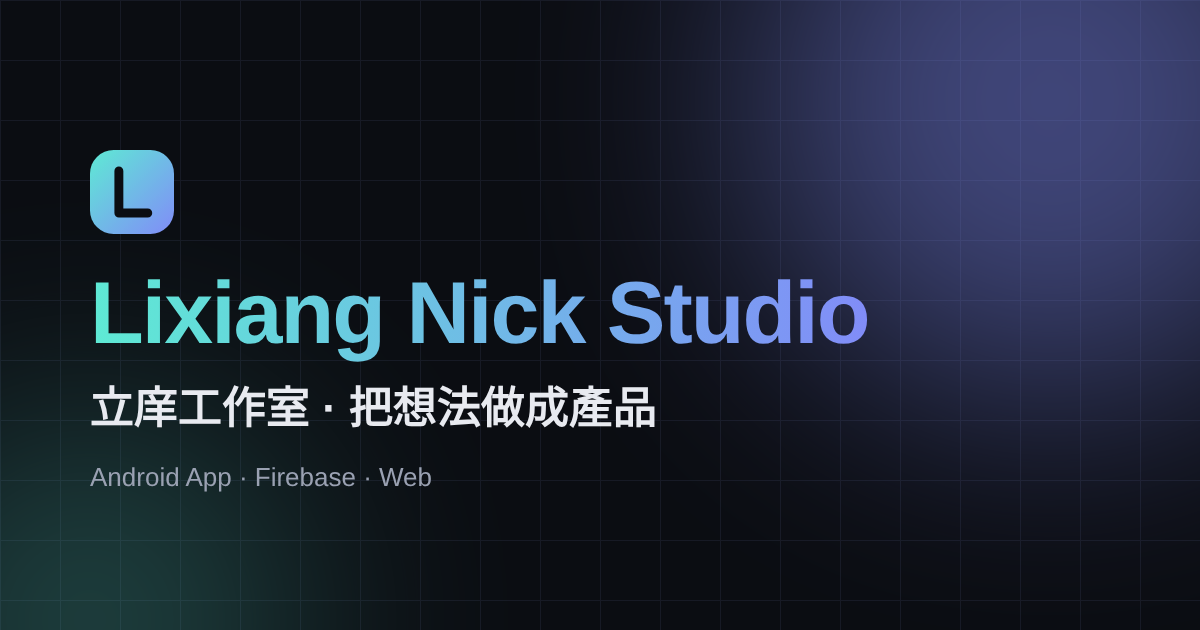
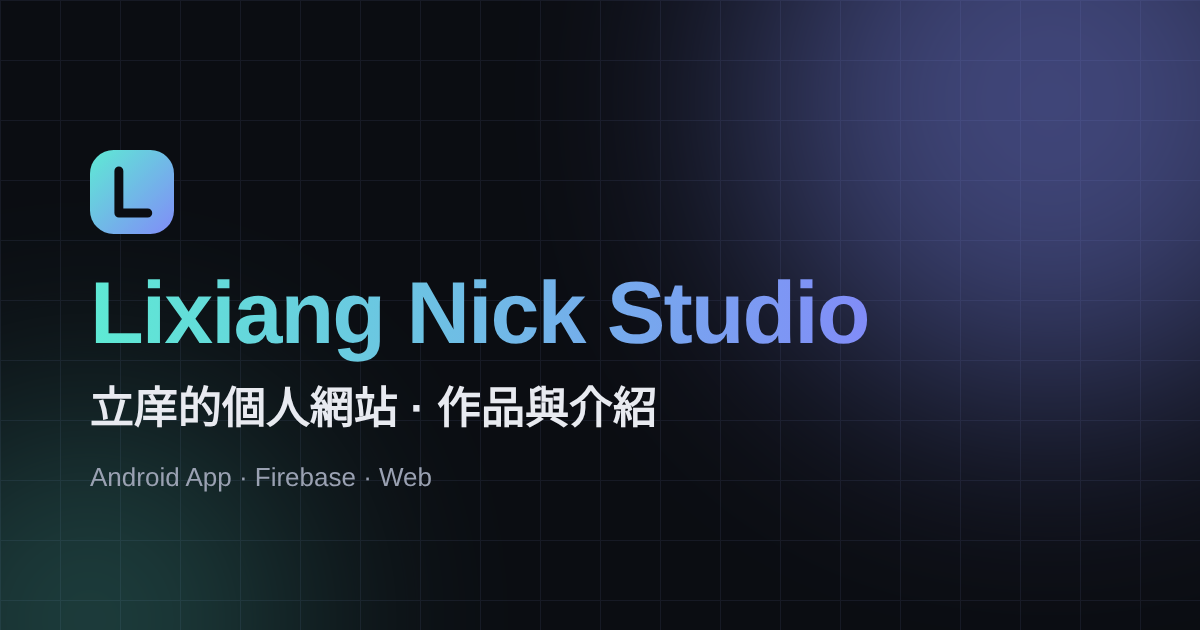
Turn site into personal intro: remove services, process, FAQ; first-person copy
Claude-Session: https://claude.ai/code/session_01EBZHduDSTzSEw5gpksr7mL

Changed region(s): [[0.1233, 0.6032, 0.555, 0.6937]]

diff --git a/index.html b/index.html
@@ -3,29 +3,23 @@
 <head>
 <meta charset="UTF-8">
 <meta name="viewport" content="width=device-width, initial-scale=1">
-<title>Lixiang Nick Studio · 立庠工作室</title>
-<meta name="description" content="Lixiang Nick Studio：個人軟體工作室，提供 Android App、Firebase 雲端後端與網站開發。Independent software studio building Android apps, Firebase backends and websites.">
+<title>Lixiang Nick Studio · 立庠</title>
+<meta name="description" content="我是立庠（Lixiang Nick），在台灣學資訊工程，喜歡做 Android App、Firebase 雲端和網頁。這裡是我的作品與介紹。">
 <meta name="theme-color" content="#0b0d12">
 <link rel="canonical" href="https://classy-beignet-781d38.netlify.app/">
 <link rel="icon" href="favicon.svg" type="image/svg+xml">
-<meta property="og:type" content="website">
-<meta property="og:title" content="Lixiang Nick Studio · 立庠工作室">
-<meta property="og:description" content="Android App · Firebase 雲端後端 · 網站開發 — 把想法做成產品。">
+<link rel="apple-touch-icon" href="apple-touch-icon.png">
+<meta property="og:type" content="profile">
+<meta property="og:title" content="Lixiang Nick Studio · 立庠">
+<meta property="og:description" content="Android App · Firebase · Web — 我的作品與介紹。">
 <meta property="og:url" content="https://classy-beignet-781d38.netlify.app/">
 <meta property="og:image" content="https://classy-beignet-781d38.netlify.app/og.png">
 <meta property="og:image:width" content="1200">
 <meta property="og:image:height" content="630">
 <meta name="twitter:card" content="summary_large_image">
 <meta name="twitter:image" content="https://classy-beignet-781d38.netlify.app/og.png">
-<link rel="apple-touch-icon" href="apple-touch-icon.png">
 <script type="application/ld+json">
-{"@context":"https://schema.org","@type":"Organization","name":"Lixiang Nick Studio","alternateName":"立庠工作室","url":"https://classy-beignet-781d38.netlify.app/","founder":{"@type":"Person","name":"Lixiang Nick"},"areaServed":"Worldwide","email":"lixiangsu6@gmail.com","sameAs":["https://github.com/Black-tea666888"]}
-</script>
-<script type="application/ld+json">
-{"@context":"https://schema.org","@type":"FAQPage","mainEntity":[
-{"@type":"Question","name":"一個專案大概要多久？","acceptedAnswer":{"@type":"Answer","text":"依規模而定。小型網站通常幾週內可以上線，App 或含硬體串接的系統會先拆成幾個階段，每階段都有可試用的版本。"}},
-{"@type":"Question","name":"費用怎麼計算？","acceptedAnswer":{"@type":"Answer","text":"先免費討論需求，確認範圍後提供逐項報價。不會在中途追加沒說好的費用。"}},
-{"@type":"Question","name":"接受海外客戶嗎？","acceptedAnswer":{"@type":"Answer","text":"接受。全程遠端合作，可用中文或英文溝通。"}}]}
+{"@context":"https://schema.org","@type":"Person","name":"Lixiang Nick","alternateName":"立庠","url":"https://classy-beignet-781d38.netlify.app/","email":"lixiangsu6@gmail.com","knowsAbout":["Android","Firebase","Web development","ESP32"],"sameAs":["https://github.com/Black-tea666888"]}
 </script>
 <link rel="preconnect" href="https://fonts.googleapis.com">
 <link rel="preconnect" href="https://fonts.gstatic.com" crossorigin>
@@ -211,6 +205,10 @@ footer a:hover{color:var(--text)}
 }
 @media(max-width:480px){.steps{grid-template-columns:1fr}}
 @media(prefers-reduced-motion:reduce){*,*::before,*::after{animation:none!important;transition:none!important}.reveal{opacity:1;transform:none}html{scroll-behavior:auto}}
+
+.now{display:grid;grid-template-columns:repeat(3,1fr);gap:20px}
+.now .card p{margin:0}
+@media(max-width:760px){.now{grid-template-columns:1fr}}
 </style>
 </head>
 <body class="no-js">
@@ -223,10 +221,10 @@ footer a:hover{color:var(--text)}
   </a>
   <button class="burger" id="burger" aria-label="Menu" aria-expanded="false" aria-controls="links"><span></span><span></span><span></span></button>
   <div class="links" id="links">
-    <a href="#services" data-i18n="nav_services">服務</a>
+    <a href="#about" data-i18n="nav_about">關於我</a>
     <a href="#projects" data-i18n="nav_projects">作品</a>
-    <a href="#process" data-i18n="nav_process">流程</a>
-    <a href="#about" data-i18n="nav_about">關於</a>
+    <a href="#skills" data-i18n="nav_skills">技能</a>
+    <a href="#now" data-i18n="nav_now">近況</a>
     <a href="#contact" data-i18n="nav_contact">聯絡</a>
     <button class="lang" id="lang" title="Switch language / 切換語言">EN</button>
   </div>
@@ -235,105 +233,65 @@ footer a:hover{color:var(--text)}
 <header id="top">
   <div class="bg-grid"></div><div class="orb a"></div><div class="orb b"></div>
   <div class="wrap"><div class="hero">
-    <div class="tag"><i></i><span data-i18n="tag">個人軟體工作室 · 接受新專案</span></div>
-    <h1><span class="grad">Lixiang Nick Studio</span><br><span data-i18n="hi">把想法做成產品</span></h1>
-    <p class="lead" data-i18n="lead">個人軟體工作室，提供 Android App、Firebase 雲端後端與網站開發——把硬體、資料和使用者連在一起。</p>
+    <div class="tag"><i></i><span data-i18n="tag">資訊工程學生 · 台灣</span></div>
+    <h1><span data-i18n="hi">你好，我是</span><br><span class="grad">立庠 Lixiang Nick</span></h1>
+    <p class="lead" data-i18n="lead">我喜歡把想法做成真的能用的東西——從 Android App、Firebase 雲端資料庫到網頁，把硬體、資料和使用者連在一起。</p>
     <div class="btns">
-      <a href="#contact" class="btn primary" data-i18n="cta1">開始合作</a>
-      <a href="#projects" class="btn ghost" data-i18n="cta2">看作品 →</a>
-    </div>
-    <div class="stats">
-      <div class="stat"><b>3+</b><span data-i18n="st1">上線作品</span></div>
-      <div class="stat"><b>3</b><span data-i18n="st2">平台：Android · Web · IoT</span></div>
-      <div class="stat"><b>2</b><span data-i18n="st3">語言：中文 · English</span></div>
+      <a href="#projects" class="btn primary" data-i18n="cta1">看我的作品</a>
+      <a href="https://github.com/Black-tea666888" class="btn ghost" target="_blank" rel="noopener">GitHub ↗</a>
     </div>
   </div></div>
 </header>
 
 <main id="main">
-<section id="services"><div class="wrap">
-  <div class="eyebrow reveal" data-i18n="sv_e">Services</div>
-  <h2 class="reveal" data-i18n="sv_t">服務項目</h2>
-  <p class="sub reveal" data-i18n="sv_s">從點子到上線，一站完成。</p>
-  <div class="grid">
-    <article class="card reveal"><div class="icon"><svg viewBox="0 0 24 24" fill="none" stroke="currentColor" stroke-width="2" stroke-linecap="round"><rect x="6" y="2" width="12" height="20" rx="2.5"/><path d="M11 18h2"/></svg></div><h3 data-i18n="sv1_t">Android App 開發</h3><p data-i18n="sv1_d">以 Java 與 Android Studio 打造原生 App，從介面設計、功能開發到上架準備。</p></article>
-    <article class="card reveal"><div class="icon"><svg viewBox="0 0 24 24" fill="none" stroke="currentColor" stroke-width="2" stroke-linecap="round" stroke-linejoin="round"><path d="M17.5 19a4.5 4.5 0 1 0-1.4-8.8A6 6 0 0 0 4.5 12 3.5 3.5 0 0 0 6 19z"/></svg></div><h3 data-i18n="sv2_t">Firebase 雲端後端</h3><p data-i18n="sv2_d">即時資料庫、使用者驗證與 IoT 裝置資料串接，讓 App、網頁與硬體即時同步。</p></article>
-    <article class="card reveal"><div class="icon"><svg viewBox="0 0 24 24" fill="none" stroke="currentColor" stroke-width="2" stroke-linecap="round"><circle cx="12" cy="12" r="10"/><path d="M2 12h20M12 2a15 15 0 0 1 0 20M12 2a15 15 0 0 0 0 20"/></svg></div><h3 data-i18n="sv3_t">網站開發與部署</h3><p data-i18n="sv3_d">響應式、多語系網站，GitHub 連動自動部署，手機、平板、電腦都好看。</p></article>
+<section id="about"><div class="wrap about">
+  <div class="reveal">
+    <div class="eyebrow" data-i18n="ab_e">About</div>
+    <h2 data-i18n="about_t">關於我</h2>
+    <p data-i18n="about_p1">我是立庠，目前在台灣讀資訊工程。比起只寫作業，我更喜歡做出別人真的會用的東西，所以常常一個人從資料庫、App 一路做到網頁。</p>
+    <p data-i18n="about_p2">Lixiang Nick Studio 是我放個人作品和實驗的地方，記錄我做過的專案和正在學的東西。</p>
+  </div>
+  <div class="facts reveal">
+    <div><span data-i18n="f_name">名字</span><span data-i18n="f_name_v">立庠 Lixiang Nick</span></div>
+    <div><span data-i18n="f_study">主修</span><span data-i18n="f_study_v">資訊工程</span></div>
+    <div><span data-i18n="f_focus">喜歡做</span><span>Android · Firebase · Web</span></div>
+    <div><span data-i18n="f_loc">所在地</span><span data-i18n="f_loc_v">台灣</span></div>
+    <div><span data-i18n="f_lang">語言</span><span data-i18n="f_lang_v">中文 · English</span></div>
   </div>
 </div></section>
 
 <section id="projects" class="alt"><div class="wrap">
-  <div class="eyebrow reveal" data-i18n="pj_e">Work</div>
-  <h2 class="reveal" data-i18n="proj_t">精選作品</h2>
-  <p class="sub reveal" data-i18n="proj_s">工作室親手打造、持續改進的作品。</p>
+  <div class="eyebrow reveal" data-i18n="pj_e">Projects</div>
+  <h2 class="reveal" data-i18n="proj_t">我的作品</h2>
+  <p class="sub reveal" data-i18n="proj_s">我做過、也還在持續改進的專案。</p>
   <div class="grid">
     <article class="card reveal">
       <div class="thumb" aria-hidden="true"><svg viewBox="0 0 320 170" preserveAspectRatio="xMidYMid slice"><defs><linearGradient id="t1" x1="0" y1="0" x2="1" y2="1"><stop offset="0" stop-color="#10233a"/><stop offset="1" stop-color="#0e1118"/></linearGradient></defs><rect width="320" height="170" fill="url(#t1)"/><g stroke="#2a3550" stroke-width="2"><path d="M40 40v100M90 40v100M140 40v100M190 40v100M240 40v100M290 40v100"/></g><g><rect x="50" y="52" width="30" height="48" rx="7" fill="#818cf8"/><rect x="150" y="52" width="30" height="48" rx="7" fill="#818cf8"/><rect x="200" y="82" width="30" height="48" rx="7" fill="#818cf8" opacity=".85"/><rect x="250" y="52" width="30" height="48" rx="7" fill="#818cf8"/></g><g><circle cx="115" cy="76" r="7" fill="#5eead4"/><circle cx="65" cy="118" r="7" fill="#5eead4"/><circle cx="115" cy="118" r="7" fill="#5eead4"/><circle cx="165" cy="118" r="7" fill="#5eead4"/><circle cx="265" cy="118" r="7" fill="#5eead4"/><circle cx="215" cy="64" r="7" fill="#5eead4"/></g><path d="M262 30a12 12 0 1 0-4-23 16 16 0 0 0-30 5 9 9 0 0 0 4 18z" fill="none" stroke="#5eead4" stroke-width="2" transform="translate(-70 6)"/><path d="M175 36v10M175 46l-6-5M175 46l6-5" stroke="#5eead4" stroke-width="2" fill="none" stroke-linecap="round"/></svg></div><span class="label">IoT</span>
-      <div class="icon"><svg viewBox="0 0 24 24" fill="none" stroke="currentColor" stroke-width="2" stroke-linecap="round" stroke-linejoin="round"><rect x="3" y="3" width="18" height="18" rx="3"/><path d="M9 17V7h4a3 3 0 0 1 0 6H9"/></svg></div>
       <h3 data-i18n="p1_t">雲端載重智慧車位偵測</h3>
-      <p data-i18n="p1_d">雙 ESP32 搭配光敏與重量感測器偵測車位，資料即時上傳 Firebase；包含 Android App 與使用者／管理員／業主三種網頁，支援 iOS、iPadOS、macOS，中英切換。</p>
+      <p data-i18n="p1_d">團隊專題，我負責軟體端：Firebase 資料庫、Android App，以及使用者／管理員／業主三種網頁。硬體用雙 ESP32 搭配光敏與重量感測器，資料即時上傳雲端；網頁支援 iOS、iPadOS、macOS 與中英切換。</p>
       <div class="chips"><span class="chip">Firebase</span><span class="chip">Android</span><span class="chip">ESP32</span><span class="chip">Web</span></div>
       <a class="more" href="https://github.com/Black-tea666888/smart-parking-web" target="_blank" rel="noopener" data-i18n="code">查看原始碼 ↗</a>
     </article>
     <article class="card reveal">
       <div class="thumb" aria-hidden="true"><svg viewBox="0 0 320 170" preserveAspectRatio="xMidYMid slice"><defs><linearGradient id="t2" x1="0" y1="0" x2="0" y2="1"><stop offset="0" stop-color="#312e81"/><stop offset=".6" stop-color="#7c3aed" stop-opacity=".55"/><stop offset="1" stop-color="#f472b6" stop-opacity=".5"/></linearGradient></defs><rect width="320" height="170" fill="url(#t2)"/><circle cx="230" cy="100" r="34" fill="#fbbf24" opacity=".85"/><g fill="#0b0d12"><path d="M0 170V118h22v-20h18v72zM46 170V80h26v90zM78 170V105h14V60h20v110zM118 170V96h30v74zM154 170V70l14-14 14 14v100zM188 170v-58h24v58zM218 170V88h20V74h14v96zM258 170v-50h22v50zM286 170V92h34v78z"/></g><g fill="#fde68a" opacity=".7"><rect x="52" y="92" width="4" height="5"/><rect x="62" y="92" width="4" height="5"/><rect x="52" y="108" width="4" height="5"/><rect x="88" y="74" width="4" height="5"/><rect x="98" y="88" width="4" height="5"/><rect x="162" y="84" width="4" height="5"/><rect x="170" y="100" width="4" height="5"/><rect x="226" y="100" width="4" height="5"/><rect x="294" y="104" width="4" height="5"/><rect x="306" y="118" width="4" height="5"/></g></svg></div><span class="label">Web</span>
-      <div class="icon"><svg viewBox="0 0 24 24" fill="none" stroke="currentColor" stroke-width="2" stroke-linecap="round" stroke-linejoin="round"><path d="M3 21h18M5 21V10l4-3v14M9 21V4l6 3v14M15 21v-8l4-2v10"/></svg></div>
       <h3>Skyline Daily Boost</h3>
-      <p data-i18n="p2_d">每日鼓勵網站：城市景色、科技公司資訊與讀書工具，為全球使用者設計，GitHub 連動自動部署。</p>
+      <p data-i18n="p2_d">我自己做的每日鼓勵網站：城市景色、科技公司資訊和讀書工具，設計給全世界的人使用，GitHub 連動自動部署。</p>
       <div class="chips"><span class="chip">HTML/CSS/JS</span><span class="chip">Netlify</span><span class="chip">GitHub</span></div>
       <a class="more" href="https://shiny-kleicha-085187.netlify.app" target="_blank" rel="noopener" data-i18n="visit">前往網站 ↗</a>
     </article>
     <article class="card reveal">
       <div class="thumb" aria-hidden="true"><svg viewBox="0 0 320 170" preserveAspectRatio="xMidYMid slice"><defs><linearGradient id="t3" x1="0" y1="0" x2="1" y2="1"><stop offset="0" stop-color="#5eead4"/><stop offset="1" stop-color="#818cf8"/></linearGradient><radialGradient id="t3b"><stop offset="0" stop-color="#3b2a6b"/><stop offset="1" stop-color="#0e1118"/></radialGradient></defs><rect width="320" height="170" fill="url(#t3b)"/><g transform="translate(160 98)"><rect x="-34" y="-50" width="68" height="96" rx="9" fill="#1c2130" stroke="#2a3550" stroke-width="2" transform="rotate(-18) translate(-34 4)"/><rect x="-34" y="-50" width="68" height="96" rx="9" fill="#1c2130" stroke="#2a3550" stroke-width="2" transform="rotate(18) translate(34 4)"/><rect x="-36" y="-58" width="72" height="104" rx="10" fill="url(#t3)"/><path d="M0 -30l7 15 16 2-12 11 3 16-14-8-14 8 3-16-12-11 16-2z" fill="#0b0d12"/></g><g fill="#fde68a"><circle cx="60" cy="40" r="2"/><circle cx="240" cy="40" r="2.5"/><circle cx="250" cy="130" r="1.6"/><circle cx="80" cy="132" r="1.8"/><circle cx="110" cy="28" r="1.4"/></g></svg></div><span class="label">Game</span>
-      <div class="icon"><svg viewBox="0 0 24 24" fill="none" stroke="currentColor" stroke-width="2" stroke-linecap="round" stroke-linejoin="round"><rect x="3" y="3" width="18" height="18" rx="3"/><circle cx="8.5" cy="8.5" r="1.2" fill="currentColor"/><circle cx="15.5" cy="15.5" r="1.2" fill="currentColor"/><circle cx="12" cy="12" r="1.2" fill="currentColor"/></svg></div>
       <h3>LuckyDraw</h3>
-      <p data-i18n="p3_d">以 Java 在 Android Studio 開發的抽卡風格手機遊戲，涵蓋遊戲邏輯、機率設計與 UI 動畫。</p>
+      <p data-i18n="p3_d">用 Java 在 Android Studio 寫的抽卡風格手機遊戲，練習遊戲邏輯、機率設計和 UI。</p>
       <div class="chips"><span class="chip">Java</span><span class="chip">Android</span><span class="chip">Game</span></div>
     </article>
   </div>
 </div></section>
 
-<section class="manifesto"><div class="wrap">
-  <blockquote class="reveal"><span data-i18n="mf1">不做華而不實的東西，</span><br><em data-i18n="mf2">只做真正有用的產品。</em></blockquote>
-  <p class="reveal" data-i18n="mf_s">Build what matters — 這是工作室做每個決定的標準。</p>
-  <div class="principles">
-    <div class="pr reveal"><b>01</b><h3 data-i18n="pp1_t">實用優先</h3><p data-i18n="pp1_d">先解決真正的問題，再談花俏的功能。每個畫面都要有存在的理由。</p></div>
-    <div class="pr reveal"><b>02</b><h3 data-i18n="pp2_t">全端打通</h3><p data-i18n="pp2_d">硬體、雲端、App、網頁一手串起，不用在多個外包之間來回溝通。</p></div>
-    <div class="pr reveal"><b>03</b><h3 data-i18n="pp3_t">透明溝通</h3><p data-i18n="pp3_d">進度、問題、取捨都說清楚，分階段交付，隨時看得到成果。</p></div>
-  </div>
-</div></section>
-
-<section id="process"><div class="wrap">
-  <div class="eyebrow reveal" data-i18n="pr_e">Process</div>
-  <h2 class="reveal" data-i18n="pr_t">合作流程</h2>
-  <p class="sub reveal" data-i18n="pr_s">清楚的步驟，每個階段都看得到進度。</p>
-  <div class="steps">
-    <div class="step reveal"><h3 data-i18n="pr1_t">需求討論</h3><p data-i18n="pr1_d">了解目標、使用者與預算，訂出範圍。</p></div>
-    <div class="step reveal"><h3 data-i18n="pr2_t">設計規劃</h3><p data-i18n="pr2_d">畫出介面與系統架構，確認後再開工。</p></div>
-    <div class="step reveal"><h3 data-i18n="pr3_t">開發測試</h3><p data-i18n="pr3_d">分階段交付，每一版都能實際試用。</p></div>
-    <div class="step reveal"><h3 data-i18n="pr4_t">上線維護</h3><p data-i18n="pr4_d">部署上線，持續修正與功能更新。</p></div>
-  </div>
-</div></section>
-
-<section id="about" class="alt"><div class="wrap about">
-  <div class="reveal">
-    <div class="eyebrow" data-i18n="ab_e">About</div>
-    <h2 data-i18n="about_t">關於工作室</h2>
-    <p data-i18n="about_p1">Lixiang Nick Studio 專注把想法做成真的能用的產品。從手機 App、雲端資料庫到跨平台網頁，一手包辦軟體端完整流程。</p>
-    <p data-i18n="about_p2">目前正開發「雲端載重智慧車位偵測」系統，並持續經營自有網站與 Android 遊戲產品。</p>
-  </div>
-  <div class="facts reveal">
-    <div><span data-i18n="f_founder">創辦人</span><span data-i18n="f_founder_v">立庠 Lixiang Nick</span></div>
-    <div><span data-i18n="f_focus">專長</span><span>Android · Firebase · Web</span></div>
-    <div><span data-i18n="f_area">服務範圍</span><span data-i18n="f_area_v">台灣 · 全球遠端</span></div>
-    <div><span data-i18n="f_lang">溝通語言</span><span data-i18n="f_lang_v">中文 · English</span></div>
-  </div>
-</div></section>
-
 <section id="skills"><div class="wrap">
-  <div class="eyebrow reveal" data-i18n="sk_e">Stack</div>
-  <h2 class="reveal" data-i18n="skill_t">技術</h2>
-  <p class="sub reveal" data-i18n="skill_s">工作室使用的技術。</p>
+  <div class="eyebrow reveal" data-i18n="sk_e">Skills</div>
+  <h2 class="reveal" data-i18n="skill_t">技能</h2>
+  <p class="sub reveal" data-i18n="skill_s">我常用的工具和技術。</p>
   <div class="skills">
     <div class="skill reveal"><h3 class="sk" data-i18n="s1">程式語言</h3><div class="chips"><span class="chip">Java</span><span class="chip">Python</span><span class="chip">JavaScript</span><span class="chip">HTML/CSS</span></div></div>
     <div class="skill reveal"><h3 class="sk" data-i18n="s2">行動與後端</h3><div class="chips"><span class="chip">Android Studio</span><span class="chip">Firebase</span><span class="chip">ESP32</span></div></div>
@@ -342,24 +300,22 @@ footer a:hover{color:var(--text)}
   </div>
 </div></section>
 
-<section id="faq"><div class="wrap">
-  <div class="eyebrow reveal" data-i18n="fq_e">FAQ</div>
-  <h2 class="reveal" data-i18n="fq_t">常見問題</h2>
-  <p class="sub reveal" data-i18n="fq_s">合作前大家最常問的事。</p>
-  <div class="faq">
-    <details class="reveal"><summary data-i18n="q1">一個專案大概要多久？</summary><p data-i18n="a1">依規模而定。小型網站通常幾週內可以上線，App 或含硬體串接的系統會先拆成幾個階段，每階段都有可試用的版本。</p></details>
-    <details class="reveal"><summary data-i18n="q2">費用怎麼計算？</summary><p data-i18n="a2">先免費討論需求，確認範圍後提供逐項報價。不會在中途追加沒說好的費用。</p></details>
-    <details class="reveal"><summary data-i18n="q3">只有想法、沒有規格書可以嗎？</summary><p data-i18n="a3">可以。我們會一起把想法整理成功能清單與畫面草圖，確認後再開始開發。</p></details>
-    <details class="reveal"><summary data-i18n="q4">上線之後還能修改嗎？</summary><p data-i18n="a4">可以。網站採自動部署，修改後幾分鐘內就會更新；App 與後端也提供後續維護。</p></details>
-    <details class="reveal"><summary data-i18n="q5">接受海外客戶嗎？</summary><p data-i18n="a5">接受。全程遠端合作，可用中文或英文溝通。</p></details>
+<section id="now" class="alt"><div class="wrap">
+  <div class="eyebrow reveal" data-i18n="nw_e">Now</div>
+  <h2 class="reveal" data-i18n="nw_t">最近在做什麼</h2>
+  <p class="sub reveal" data-i18n="nw_s">我現在的重心。</p>
+  <div class="now">
+    <div class="card reveal"><h3 data-i18n="n1_t">完成智慧車位專題</h3><p data-i18n="n1_d">把 App、網頁和 Firebase 串得更穩定。</p></div>
+    <div class="card reveal"><h3 data-i18n="n2_t">準備轉學考</h3><p data-i18n="n2_d">目標是進入資工系，繼續往軟體深入。</p></div>
+    <div class="card reveal"><h3 data-i18n="n3_t">打磨自己的網站</h3><p data-i18n="n3_d">持續改進 Skyline Daily Boost 和這個網站。</p></div>
   </div>
 </div></section>
 
-<section id="contact" class="alt"><div class="wrap contact">
+<section id="contact"><div class="wrap contact">
   <div class="reveal">
     <div class="eyebrow" data-i18n="ct_e">Contact</div>
-    <h2 data-i18n="ct_t">有專案想合作？</h2>
-    <p data-i18n="ct_s">寄信或填表單，通常 1–2 天內回覆。</p>
+    <h2 data-i18n="ct_t">跟我聊聊</h2>
+    <p data-i18n="ct_s">想交流技術、討論作品或只是打聲招呼，都歡迎寄信或留言給我。</p>
     <div class="mail">
       <a href="mailto:lixiangsu6@gmail.com" class="mail-link"><svg viewBox="0 0 24 24" fill="none" stroke="currentColor" stroke-width="2" stroke-linecap="round" stroke-linejoin="round" aria-hidden="true"><rect x="2" y="4" width="20" height="16" rx="3"/><path d="m22 7-10 6L2 7"/></svg>lixiangsu6@gmail.com</a>
       <button class="copy-mail" id="copyMail" type="button" data-i18n="cp">複製</button>
@@ -373,35 +329,27 @@ footer a:hover{color:var(--text)}
       <label><span data-i18n="fm_name">名字</span><input name="name" required autocomplete="name"></label>
       <label><span data-i18n="fm_email">Email</span><input type="email" name="email" required autocomplete="email"></label>
     </div>
-    <label><span data-i18n="fm_type">需求類型</span>
-      <select name="type">
-        <option data-i18n="fm_o1">Android App</option>
-        <option data-i18n="fm_o2">Firebase 後端</option>
-        <option data-i18n="fm_o3">網站</option>
-        <option data-i18n="fm_o4">其他</option>
-      </select>
-    </label>
-    <label><span data-i18n="fm_msg">專案內容</span><textarea name="message" required></textarea></label>
+    <label><span data-i18n="fm_msg">想說的話</span><textarea name="message" required></textarea></label>
     <button class="btn primary" type="submit" data-i18n="fm_send">送出</button>
     <div class="msg" id="msg" role="status" aria-live="polite"></div>
-    <p class="legal"><span data-i18n="lg1">送出即表示你同意我們依</span> <a href="privacy.html" data-i18n="lg2">隱私權政策</a> <span data-i18n="lg3">處理你的資料。</span></p>
+    <p class="legal"><span data-i18n="lg1">送出即表示你同意我依</span> <a href="privacy.html" data-i18n="lg2">隱私權政策</a> <span data-i18n="lg3">處理你的資料。</span></p>
   </form>
 </div></section>
 </main>
 
 <footer><div class="wrap">
   <div class="fgrid">
-    <div><a href="#top" class="logo"><svg viewBox="0 0 32 32" aria-hidden="true"><defs><linearGradient id="lg2" x1="0" y1="0" x2="1" y2="1"><stop offset="0" stop-color="#5eead4"/><stop offset="1" stop-color="#818cf8"/></linearGradient></defs><rect width="32" height="32" rx="9" fill="url(#lg2)"/><path d="M11 8v16h11" fill="none" stroke="#0b0d12" stroke-width="3.4" stroke-linecap="round" stroke-linejoin="round"/></svg><span>Lixiang Nick<span class="lt"> Studio</span></span></a><p data-i18n="f_tag">立庠工作室——把想法做成真正有用的產品。</p></div>
-    <div><h3 class="fh" data-i18n="f_h1">工作室</h3><ul><li><a href="#services" data-i18n="nav_services">服務</a></li><li><a href="#process" data-i18n="nav_process">流程</a></li><li><a href="#about" data-i18n="nav_about">關於</a></li><li><a href="#faq">FAQ</a></li></ul></div>
+    <div><a href="#top" class="logo"><svg viewBox="0 0 32 32" aria-hidden="true"><defs><linearGradient id="lg2" x1="0" y1="0" x2="1" y2="1"><stop offset="0" stop-color="#5eead4"/><stop offset="1" stop-color="#818cf8"/></linearGradient></defs><rect width="32" height="32" rx="9" fill="url(#lg2)"/><path d="M11 8v16h11" fill="none" stroke="#0b0d12" stroke-width="3.4" stroke-linecap="round" stroke-linejoin="round"/></svg><span>Lixiang Nick<span class="lt"> Studio</span></span></a><p data-i18n="f_tag">立庠的個人網站——作品、技能與近況。</p></div>
+    <div><h3 class="fh" data-i18n="f_h1">網站</h3><ul><li><a href="#about" data-i18n="nav_about">關於我</a></li><li><a href="#skills" data-i18n="nav_skills">技能</a></li><li><a href="#now" data-i18n="nav_now">近況</a></li></ul></div>
     <div><h3 class="fh" data-i18n="f_h2">作品</h3><ul><li><a href="#projects" data-i18n="f_p1">智慧車位</a></li><li><a href="https://shiny-kleicha-085187.netlify.app" target="_blank" rel="noopener">Skyline</a></li><li><a href="#projects">LuckyDraw</a></li></ul></div>
-    <div><h3 class="fh" data-i18n="f_h3">連結</h3><ul><li><a href="mailto:lixiangsu6@gmail.com">Email</a></li><li><a href="https://github.com/Black-tea666888" target="_blank" rel="noopener">GitHub</a></li><li><a href="brand.html" data-i18n="f_brand">品牌資源</a></li><li><a href="privacy.html" data-i18n="lg2">隱私權政策</a></li><li><a href="#contact" data-i18n="nav_contact">聯絡</a></li></ul></div>
+    <div><h3 class="fh" data-i18n="f_h3">連結</h3><ul><li><a href="mailto:lixiangsu6@gmail.com">Email</a></li><li><a href="https://github.com/Black-tea666888" target="_blank" rel="noopener">GitHub</a></li><li><a href="brand.html" data-i18n="f_brand">品牌資源</a></li><li><a href="privacy.html" data-i18n="lg2">隱私權政策</a></li></ul></div>
   </div>
-  <div class="fbar"><span>© <span id="yr"></span> Lixiang Nick Studio · 立庠工作室</span><a href="#top" data-i18n="top">回到頂部 ↑</a></div>
+  <div class="fbar"><span>© <span id="yr"></span> Lixiang Nick Studio · 立庠</span><a href="#top" data-i18n="top">回到頂部 ↑</a></div>
 </div></footer>
 
 <script>
 document.body.classList.remove("no-js");
-const en={skip:"Skip to content",nav_services:"Services",nav_projects:"Work",nav_process:"Process",nav_about:"About",nav_contact:"Contact",tag:"Independent software studio · Open for projects",hi:"Turning ideas into products",lead:"An independent software studio building Android apps, Firebase backends and websites — connecting hardware, data and people.",cta1:"Start a project",cta2:"See work →",st1:"Live projects",st2:"Platforms: Android · Web · IoT",st3:"Languages: 中文 · English",sv_e:"Services",sv_t:"What we do",sv_s:"From idea to launch, all in one place.",sv1_t:"Android App Development",sv1_d:"Native apps in Java with Android Studio — from UI design and features to release.",sv2_t:"Firebase Cloud Backend",sv2_d:"Realtime database, authentication and IoT data pipelines that keep apps, web and hardware in sync.",sv3_t:"Website Development",sv3_d:"Responsive, multilingual websites with Git-based auto-deploy that look great on every device.",pj_e:"Work",proj_t:"Featured work",proj_s:"Products we built and keep improving.",p1_t:"Cloud Smart Parking Detection",p1_d:"Dual-ESP32 hardware with light and weight sensors detects parking spots and streams data to Firebase in real time. Includes an Android app and three web clients (user / admin / owner) with iOS, iPadOS and macOS support and a Chinese/English switch.",code:"View source ↗",p2_d:"A daily-encouragement site with city scenes, tech-company info and study tools, designed for users worldwide with Git-based auto-deploy.",visit:"Visit site ↗",p3_d:"A gacha-style mobile game built in Java with Android Studio, covering game logic, probability design and UI animation.",pr_e:"Process",pr_t:"How we work",pr_s:"Clear steps, with visible progress at every stage.",pr1_t:"Discover",pr1_d:"Understand goals, users and budget, then set the scope.",pr2_t:"Design",pr2_d:"Sketch the UI and system architecture, and agree before building.",pr3_t:"Build & test",pr3_d:"Deliver in stages, with every version ready to try.",pr4_t:"Launch & support",pr4_d:"Deploy, then keep fixing and improving.",ab_e:"About",about_t:"About the studio",about_p1:"Lixiang Nick Studio turns ideas into products people actually use — from mobile apps to cloud databases to cross-platform web pages, covering the full software side.",about_p2:"Currently building a cloud-based, weight-sensing smart parking system, alongside our own website and Android game.",f_founder:"Founder",f_founder_v:"Lixiang Nick",f_focus:"Focus",f_area:"Serving",f_area_v:"Taiwan · Remote worldwide",f_lang:"Languages",f_lang_v:"Chinese · English",sk_e:"Stack",skill_t:"Tech stack",skill_s:"Tech the studio works with.",s1:"Languages",s2:"Mobile & Backend",s3:"Tools",s4:"Foundations",c1:"Networking",c2:"Computer Organization",c3:"Discrete Math",c4:"Systems Analysis",ct_e:"Contact",ct_t:"Have a project in mind?",ct_s:"Email us or use the form — we usually reply within 1–2 days.",fm_name:"Name",fm_email:"Email",fm_type:"Project type",fm_o1:"Android App",fm_o2:"Firebase backend",fm_o3:"Website",fm_o4:"Other",fm_msg:"Project details",fm_send:"Send",top:"Back to top ↑",fq_e:"FAQ",fq_t:"Frequently asked questions",fq_s:"What people usually ask before we start.",q1:"How long does a project take?",a1:"It depends on scope. A small website can usually launch within a few weeks; apps or systems with hardware are split into stages, each with a version you can try.",q2:"How is pricing calculated?",a2:"We start with a free consultation, then give an itemized quote once the scope is clear. No surprise charges along the way.",q3:"I only have an idea, no spec. Is that OK?",a3:"Yes. We will turn your idea into a feature list and screen sketches together before any development starts.",q4:"Can things be changed after launch?",a4:"Yes. Websites auto-deploy, so updates go live within minutes; apps and backends come with ongoing maintenance.",q5:"Do you work with overseas clients?",a5:"Yes. We work fully remote, in Chinese or English.",lg1:"By sending, you agree we handle your data under our",lg2:"Privacy Policy",lg3:".",mf1:"No fluff, no gimmicks —",mf2:"only products that truly matter.",mf_s:"Build what matters — the standard behind every decision we make.",pp1_t:"Useful first",pp1_d:"Solve the real problem before adding flashy features. Every screen has to earn its place.",pp2_t:"Full-stack, end to end",pp2_d:"Hardware, cloud, app and web wired together by one team — no juggling multiple vendors.",pp3_t:"Clear communication",pp3_d:"Progress, problems and trade-offs stated plainly, delivered in stages you can try anytime.",f_tag:"Lixiang Nick Studio — turning ideas into products that truly matter.",f_h1:"Studio",f_h2:"Work",f_h3:"Links",f_p1:"Smart Parking",f_brand:"Brand kit",ok:"Thanks! Your message was sent.",err:"Couldn't send. Please try again or email lixiangsu6@gmail.com.",cp:"Copy",cpd:"Copied"};
+const en={skip:"Skip to content",nav_about:"About",nav_projects:"Projects",nav_skills:"Skills",nav_now:"Now",nav_contact:"Contact",tag:"CS student · Taiwan",hi:"Hi, I'm",lead:"I love turning ideas into things people actually use — Android apps, Firebase cloud databases and websites that connect hardware, data and people.",cta1:"See my projects",ab_e:"About",about_t:"About me",about_p1:"I'm Lixiang, studying Computer Science & Information Engineering in Taiwan. I'd rather build things people really use than just finish assignments, so I often take a project all the way from the database and app to the website.",about_p2:"Lixiang Nick Studio is where I keep my personal projects and experiments — what I've built and what I'm learning.",f_name:"Name",f_name_v:"Lixiang Nick",f_study:"Major",f_study_v:"CS & Information Eng.",f_focus:"I build",f_loc:"Based in",f_loc_v:"Taiwan",f_lang:"Languages",f_lang_v:"Chinese · English",pj_e:"Projects",proj_t:"My projects",proj_s:"Things I've built and keep improving.",p1_t:"Cloud Smart Parking Detection",p1_d:"A team project where I own the software side: the Firebase database, the Android app, and three web clients (user / admin / owner). The hardware uses dual ESP32s with light and weight sensors streaming to the cloud in real time; the web supports iOS, iPadOS, macOS and a Chinese/English switch.",code:"View source ↗",p2_d:"My own daily-encouragement site with city scenes, tech-company info and study tools, designed for people worldwide and auto-deployed from GitHub.",visit:"Visit site ↗",p3_d:"A gacha-style mobile game I wrote in Java with Android Studio to practice game logic, probability design and UI.",sk_e:"Skills",skill_t:"Skills",skill_s:"Tools and tech I use often.",s1:"Languages",s2:"Mobile & Backend",s3:"Tools",s4:"Foundations",c1:"Networking",c2:"Computer Organization",c3:"Discrete Math",c4:"Systems Analysis",nw_e:"Now",nw_t:"What I'm doing now",nw_s:"Where my focus is these days.",n1_t:"Finishing the smart parking project",n1_d:"Making the app, web and Firebase work together more reliably.",n2_t:"Preparing for a transfer exam",n2_d:"Aiming for a CS department to go deeper into software.",n3_t:"Polishing my own sites",n3_d:"Improving Skyline Daily Boost and this website.",ct_e:"Contact",ct_t:"Say hello",ct_s:"Want to talk tech, chat about a project, or just say hi? Email me or leave a message.",fm_name:"Name",fm_email:"Email",fm_msg:"Message",fm_send:"Send",lg1:"By sending, you agree I handle your data under the",lg2:"Privacy Policy",lg3:".",f_tag:"Lixiang's personal site — projects, skills and what I'm up to.",f_h1:"Site",f_h2:"Projects",f_h3:"Links",f_p1:"Smart Parking",f_brand:"Brand kit",top:"Back to top ↑",ok:"Thanks! Your message was sent.",err:"Couldn't send. Please try again or email lixiangsu6@gmail.com.",cp:"Copy",cpd:"Copied"};
 const zh={ok:"謝謝！訊息已送出。",err:"送出失敗，請再試一次，或直接寄信到 lixiangsu6@gmail.com。",cpd:"已複製"};
 document.querySelectorAll("[data-i18n]").forEach(e=>zh[e.dataset.i18n]=e.textContent);
 let cur="zh";const btn=document.getElementById("lang");
@@ -410,21 +358,16 @@ btn.onclick=()=>set(cur==="zh"?"en":"zh");
 let saved=null;try{saved=localStorage.getItem("lang")}catch(e){}
 if(saved==="en"||(!saved&&!/^zh/i.test(navigator.language||"")))set("en");
 document.getElementById("yr").textContent=new Date().getFullYear();
-
 const nav=document.getElementById("nav"),burger=document.getElementById("burger");
 const onScroll=()=>nav.classList.toggle("scrolled",scrollY>10);onScroll();addEventListener("scroll",onScroll,{passive:true});
 burger.onclick=()=>{const o=nav.classList.toggle("open");burger.setAttribute("aria-expanded",o)};
 document.querySelectorAll(".links a").forEach(a=>a.onclick=()=>{nav.classList.remove("open");burger.setAttribute("aria-expanded",false)});
-
 const io=new IntersectionObserver(es=>es.forEach(e=>{if(e.isIntersecting){e.target.classList.add("in");io.unobserve(e.target)}}),{threshold:.12});
 document.querySelectorAll(".reveal").forEach((el,i)=>{el.style.transitionDelay=(i%4)*70+"ms";io.observe(el)});
-
 const links=[...document.querySelectorAll(".links a[href^='#']")];
 const so=new IntersectionObserver(es=>es.forEach(e=>{if(e.isIntersecting)links.forEach(a=>a.classList.toggle("active",a.getAttribute("href")==="#"+e.target.id))}),{rootMargin:"-45% 0px -50% 0px"});
 document.querySelectorAll("section[id]").forEach(s=>so.observe(s));
-
 document.querySelectorAll(".card").forEach(c=>c.addEventListener("pointermove",e=>{const r=c.getBoundingClientRect();c.style.setProperty("--mx",e.clientX-r.left+"px");c.style.setProperty("--my",e.clientY-r.top+"px")}));
-
 document.getElementById("copyMail").onclick=async e=>{const d=cur==="en"?en:zh;try{await navigator.clipboard.writeText("lixiangsu6@gmail.com");e.target.textContent=d.cpd}catch(_){e.target.textContent="lixiangsu6@gmail.com"}setTimeout(()=>e.target.textContent=d.cp,1600)};
 const form=document.getElementById("form"),msg=document.getElementById("msg");
 form.addEventListener("submit",async e=>{e.preventDefault();const b=form.querySelector("button");b.disabled=true;msg.className="msg";msg.textContent="…";

diff --git a/privacy.html b/privacy.html
@@ -1,9 +1,9 @@
 <!DOCTYPE html><html lang="zh-Hant"><head><meta charset="UTF-8"><meta name="viewport" content="width=device-width,initial-scale=1"><link rel="icon" href="favicon.svg" type="image/svg+xml"><link href="https://fonts.googleapis.com/css2?family=Space+Grotesk:wght@700&family=Inter:wght@400;600&family=Noto+Sans+TC:wght@400;700&display=swap" rel="stylesheet"><style>body{margin:0;background:#0b0d12;color:#e8eaf0;font-family:Inter,"Noto Sans TC",system-ui,sans-serif;line-height:1.8}.w{max-width:760px;margin:0 auto;padding:56px 24px}a{color:#5eead4;text-decoration:none}h1{font-family:"Space Grotesk","Noto Sans TC";font-size:40px;line-height:1.2;margin:20px 0 8px}h2{font-size:19px;margin:32px 0 6px}p,li{color:#9aa1b2}.m{font-size:13px;color:#9aa1b2}.btn{display:inline-block;margin-top:24px;padding:12px 22px;border-radius:12px;background:#5eead4;color:#06221d;font-weight:600}</style><title>隱私權政策 · Lixiang Nick Studio</title><meta name="robots" content="noindex"></head><body><main class="w">
 <a href="index.html">← Lixiang Nick Studio</a>
 <h1>隱私權政策 Privacy Policy</h1><p class="m">最後更新：2026-11-09</p>
-<h2>我們收集什麼</h2><p>只有你在聯絡表單主動填寫的資料：名字、Email、需求類型與專案內容。網站不使用追蹤 Cookie 或廣告分析工具。</p>
-<h2>怎麼使用</h2><p>僅用於回覆你的詢問與後續合作溝通，不會出售、出租或分享給第三方作行銷用途。</p>
+<h2>我收集什麼</h2><p>只有你在聯絡表單主動填寫的資料：名字、Email、需求類型與專案內容。網站不使用追蹤 Cookie 或廣告分析工具。</p>
+<h2>怎麼使用</h2><p>僅用於回覆你的詢問與後續聯絡，不會出售、出租或分享給第三方作行銷用途。</p>
 <h2>存放在哪裡</h2><p>表單資料由網站代管服務 Netlify 儲存與處理。網站本身只在你的瀏覽器記住語言偏好（localStorage），不會上傳。</p>
 <h2>你的權利</h2><p>你可以隨時要求查看、更正或刪除你提供的資料，寄信到 lixiangsu6@gmail.com 或透過聯絡表單告知即可。</p>
-<h2>English summary</h2><p>We only collect what you submit in the contact form (name, email, project details), use it solely to reply and work with you, never sell or share it for marketing, and store it via our host Netlify. No tracking cookies. Email lixiangsu6@gmail.com anytime to view, correct or delete your data.</p>
+<h2>English summary</h2><p>I only collect what you submit in the contact form (name, email, project details), use it solely to reply to you, never sell or share it for marketing, and store it via my host Netlify. No tracking cookies. Email lixiangsu6@gmail.com anytime to ask me to view, correct or delete your data.</p>
 </main></body></html>

diff --git a/thanks.html b/thanks.html
@@ -1,3 +1,3 @@
 <!DOCTYPE html><html lang="zh-Hant"><head><meta charset="UTF-8"><meta name="viewport" content="width=device-width,initial-scale=1"><link rel="icon" href="favicon.svg" type="image/svg+xml"><link href="https://fonts.googleapis.com/css2?family=Space+Grotesk:wght@700&family=Inter:wght@400;600&family=Noto+Sans+TC:wght@400;700&display=swap" rel="stylesheet"><style>body{margin:0;background:#0b0d12;color:#e8eaf0;font-family:Inter,"Noto Sans TC",system-ui,sans-serif;line-height:1.8}.w{max-width:760px;margin:0 auto;padding:56px 24px}a{color:#5eead4;text-decoration:none}h1{font-family:"Space Grotesk","Noto Sans TC";font-size:40px;line-height:1.2;margin:20px 0 8px}h2{font-size:19px;margin:32px 0 6px}p,li{color:#9aa1b2}.m{font-size:13px;color:#9aa1b2}.btn{display:inline-block;margin-top:24px;padding:12px 22px;border-radius:12px;background:#5eead4;color:#06221d;font-weight:600}</style><title>已送出 · Lixiang Nick Studio</title><meta name="robots" content="noindex"></head><body><main class="w" style="text-align:center;padding-top:120px">
-<h1>謝謝！訊息已送出</h1><p>Thanks! We usually reply within 1–2 days.</p><a class="btn" href="index.html">回首頁 · Home</a>
+<h1>謝謝！訊息已送出</h1><p>Thanks! I usually reply within 1–2 days.</p><a class="btn" href="index.html">回首頁 · Home</a>
 </main></body></html>

diff --git a/brand.html b/brand.html
@@ -80,7 +80,7 @@ footer{padding:32px 0;color:var(--mute);font-size:13px}
   <h2>語氣 Voice</h2>
   <p class="sub">標語：<b>Build what matters · 把想法做成產品</b></p>
   <div class="voice">
-    <div class="do"><h3>✓ 這樣說</h3><ul><li>直接、具體：「三週內交付可試用版本」</li><li>用「我們」代表工作室</li><li>中英並列時，各自說得自然，不逐字翻譯</li></ul></div>
+    <div class="do"><h3>✓ 這樣說</h3><ul><li>直接、具體：說清楚做了什麼、用了什麼技術</li><li>用「我」來寫，像在跟人聊天</li><li>中英並列時，各自說得自然，不逐字翻譯</li></ul></div>
     <div class="dont"><h3>✕ 不要這樣說</h3><ul><li>空泛誇大：「業界頂尖」「顛覆傳統」</li><li>堆砌術語，讓客戶看不懂</li><li>承諾做不到的時程或功能</li></ul></div>
   </div>
 </div></section>
